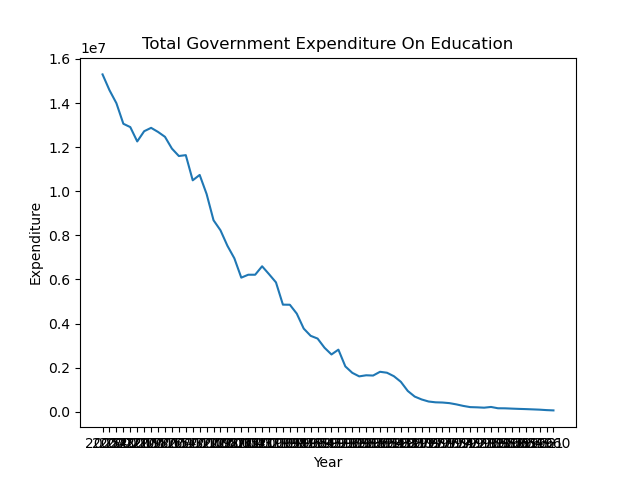
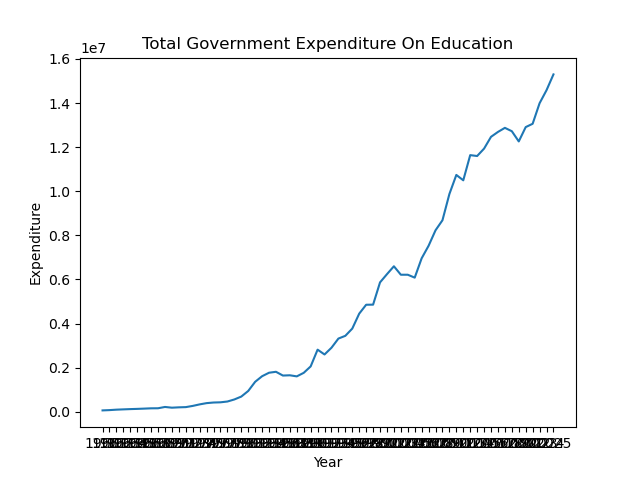
ee2211_tut3_qn4

diff --git a/EE2211/Tut_3/ee2211_tut3_qn4.py b/EE2211/Tut_3/ee2211_tut3_qn4.py
@@ -1,0 +1,36 @@
+# Consider tossing a fair six-sided die. There are only six outcomes possible, Ω = {1, 2, 3, 4, 5, 6}. Suppose we toss two
+# dice and assume that each throw is independent.
+# (a) What is the probability that the sum of the dice equals seven?
+# i. List out all pairs of possible outcomes together with their sums from the two throws.
+# (hint: enumerate all the items in range(1,7))
+# ii. Collect all of the (a, b) pairs that sum to each of the possible values from two to twelve (including
+# the sum equals seven). (hint: use dictionary from collections import defaultdict to
+# collect all of the (a, b) pairs that sum to each of the possible values from two to twelve)
+# (b) What is the probability that half the product of three dice will exceed their sum?
+
+
+from collections import defaultdict
+
+
+def dice():
+    d = defaultdict(int)
+    sums = [] 
+    outcomes = range(1, 7)
+
+    for i in outcomes:
+        for j in outcomes:
+            sums.append([i + j, [i, j]])
+
+    for x in sums:
+        d[x[0]] += 1
+
+    total = 0
+    for y in d:
+        total += d[y]
+
+    prob = d[7] / total
+
+    print(round(prob, 3))
+
+
+dice()

diff --git a/EE2211/Tut_2/ee2211_tut2_qn1_TAsoln.py b/EE2211/Tut_2/ee2211_tut2_qn1_TAsoln.py
@@ -1,0 +1,14 @@
+import pandas as pd 
+import matplotlib.pyplot as plt
+
+
+df = pd.read_csv("government-expenditure-on-education.csv")
+expenditureList = df ['total_expenditure_on_education'].tolist()
+yearList = df ['year'].tolist()
+plt.plot(yearList, expenditureList, label = 'Expenditure over the years')
+plt.xlabel('Year')
+plt.ylabel('Expenditure')
+plt.title('Education Expenditure')
+plt.legend()
+plt.savefig('expenditure_plot_soln.png')
+plt.show()

diff --git a/EE2211/Tut_2/ee2211_tut2_qn1.py b/EE2211/Tut_2/ee2211_tut2_qn1.py
@@ -5,14 +5,11 @@ def plot_data(file_path):
     df = pd.read_csv(file_path)
 
     df.set_index("DataSeries", inplace=True)
-    
 
     expenditure = df.loc["Total Government Expenditure On Education"]
 
-    
-  
-
     plt.plot(expenditure.index, expenditure.values)
+    plt.gca().invert_xaxis()
     plt.xlabel("Year")
     plt.ylabel("Expenditure")
     plt.title("Total Government Expenditure On Education")

diff --git a/EE2211/Tut_2/ee2211_tut2_qn2.py b/EE2211/Tut_2/ee2211_tut2_qn2.py
@@ -1,12 +1,11 @@
 import pandas as pd
 import matplotlib.pyplot as plt 
-from matplotlib.ticker import MaxNLocator
 
 
 def plot_data(file_path):
     df = pd.read_csv(file_path)
 
-    df["year"] = df["year"].round().astype(int)
+
     df.set_index("year", inplace=True)
 
     
